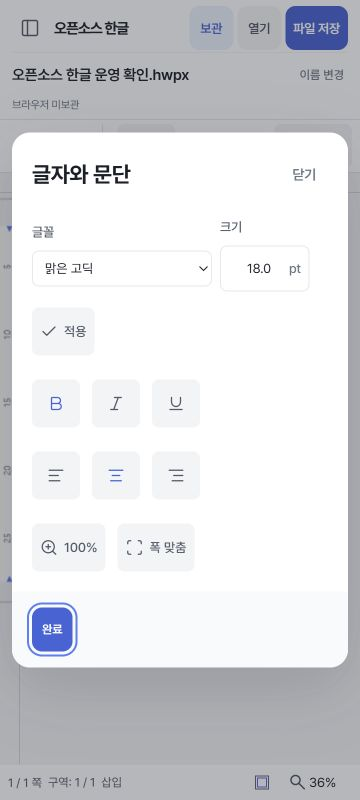
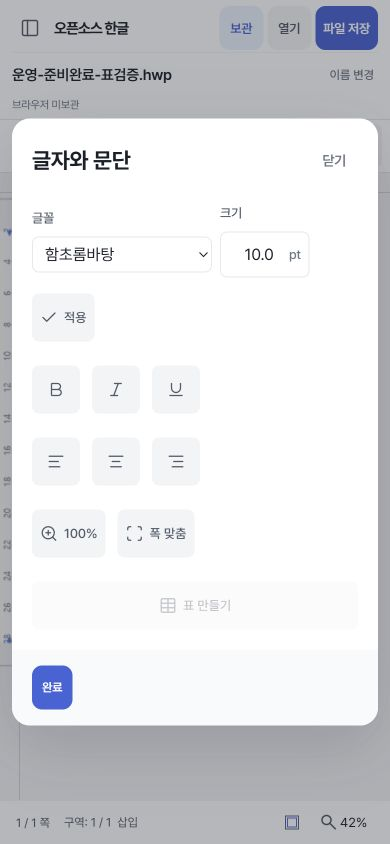
Document verified HWP round trips and production mobile checks

diff --git a/VERIFICATION.md b/VERIFICATION.md
@@ -117,3 +117,11 @@
 자세한 원본·저장본 조건과 미해결 HWPX 배치 차이는 [HWP_CHECKS.md](HWP_CHECKS.md)에 기록했다. 세 실제 HWP 저장은 원문/쪽/표/추가 문구 조건을 통과했다. 모바일 쪽·배율/회전·서식·표 생성 직후 입력과 키보드 메뉴를 보완했다. 기존11개+맞춤 회귀6개 총17개 테스트와 production build 통과. 물리 기기/IME 검증과 HWPX 배치 차이는 완료로 취급하지 않는다.
 
 v0.3.1 운영 1차 배포 `f1cf6279-cb57-4423-8ae0-961b0bf3d014`의 빌드 SUCCESS/ready, /와 /healthz 200, 로컬 JS/CSS 바이트 일치를 확인했다. 실제 독후감 HWP를 열고 검색한 문장의12pt·굵게, 6쪽 사업계획서의2쪽 이동, HWPX 변환 한계 안내, 모바일 표 생성/Tab 셀 이동/저장한 두 셀 문장을 확인했다. 초기 입력 준비 시점 문제는 추가로 수정하고 로컬 새 문서의 첫 두 문장 HWP 저장과 잘못된 파일 오류 후 잠금 해제를 재검증했다. 이 보완도 같은 프로젝트에 갱신한다.
+
+### 초기 입력 보완의 운영 확인
+
+- 소스 `2b152bb97eaf9bfd3a67fdfd1637955195bcb781`, 배포 `1d28697c-f5dd-4149-8e14-bd6a45fbcde0`의 web 빌드 SUCCESS/ready. canonical과 실제 fork의 main SHA 일치 후 배포했다.
+- 운영의 새 탭에서 로딩 안내와 준비 완료를 확인한 직후 두 문장 입력, 모바일 표 2×2 생성과 두 셀 입력/Tab 이동, 이름 변경과 HWP 다운로드를 수행했다. 실제 내려받은 파일의 1쪽·표 1개·본문 2문장·셀 2문장, 6조건 모두 PASS. 파일 자체는 Git에서 제외했다.
+- 360×800, 390×844, 768×1024, 1440×900, 700×390의 운영 화면을 직접 확인하고 캡처했다. 페이지 가로 넘침 0px, 모바일 쪽 버튼 44px. 100% 배율은 회전 뒤에도 유지됐다. 폭 맞춤에서 가로→세로 전환 시 scrollTop=0 유지. 서식 창 Escape 뒤 서식 버튼 포커스 복귀 확인. 정상 편집·저장 흐름 console warn/error 0건.
[1 lines of base64/hex data omitted]
+- 이후 README/이 검증 기록과 직접 만든 문서의 화면만 갱신한다. 물리 휴대전화의 터치/IME 및 독후감 HWPX 1→2쪽 배치 차이는 위 미검증/미해결 범위로 유지한다.
